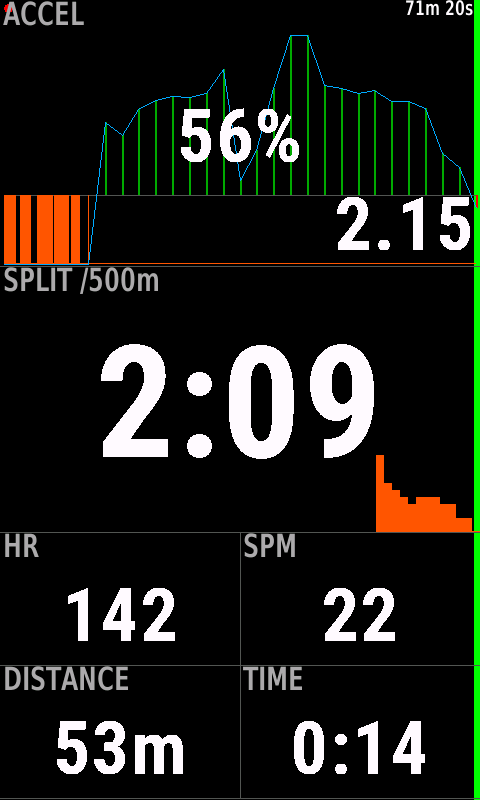
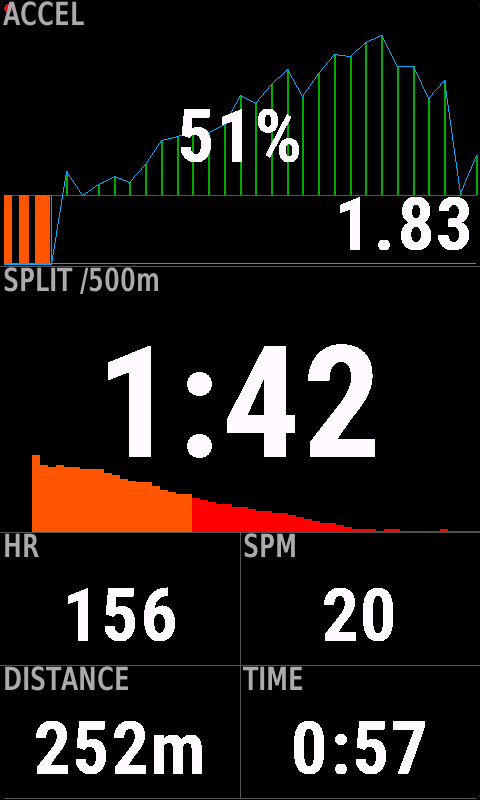
README: new 1.1.4 screenshots from the simulator
Real home screen with its text, data screens and Edge 540 menus as they
look in 1.1.4, without the demo label.

diff --git a/README.md b/README.md
@@ -56,25 +56,25 @@ to RemoEdge as well.
 ## Screenshots
 
 <p align="center">
-  <img src="images/screens/home.png" width="200" alt="Home screen artwork"/>
+  <img src="images/screens/home.png" width="200" alt="Home screen"/>
   <img src="images/screens/data-light.png" width="200" alt="Data screen, light theme"/>
   <img src="images/screens/data-dark.png" width="200" alt="Data screen, dark theme"/>
 </p>
 
-Edge 1050: home screen artwork, then the data screen at zoom z4 (acceleration
+Edge 1050: the home screen, then the data screen at zoom z4 (acceleration
 curve, split, heart rate, stroke rate, distance, time) in the light and dark
-themes. The green bar on the right of the dark screen is the radar warning.
+themes.
 
 <p align="center">
   <img src="images/screens/edge540-zoom-z2.png" width="160" alt="Edge 540, zoom z2"/>
   <img src="images/screens/edge540-split.png" width="160" alt="Edge 540, split as main field"/>
   <img src="images/screens/edge540-settings.png" width="160" alt="Edge 540, settings menu"/>
-  <img src="images/screens/edge540-features.png" width="160" alt="Edge 540, features menu"/>
+  <img src="images/screens/edge540-detection.png" width="160" alt="Edge 540, stroke detection menu"/>
 </p>
 
-Edge 540/840, from RowEdge and unchanged in RemoEdge: zoom z2 (two fields),
-split as the main field, the settings menu and the features menu. The data
-screens were taken in demo mode, hence the label in the corner.
+Edge 540/840: zoom z2 (two fields), split as the main field, the settings
+menu grouped by category and the Stroke Detection menu. All screens are from
+the simulator in demo mode, so the numbers are simulated.
 
 ## Why?
 
